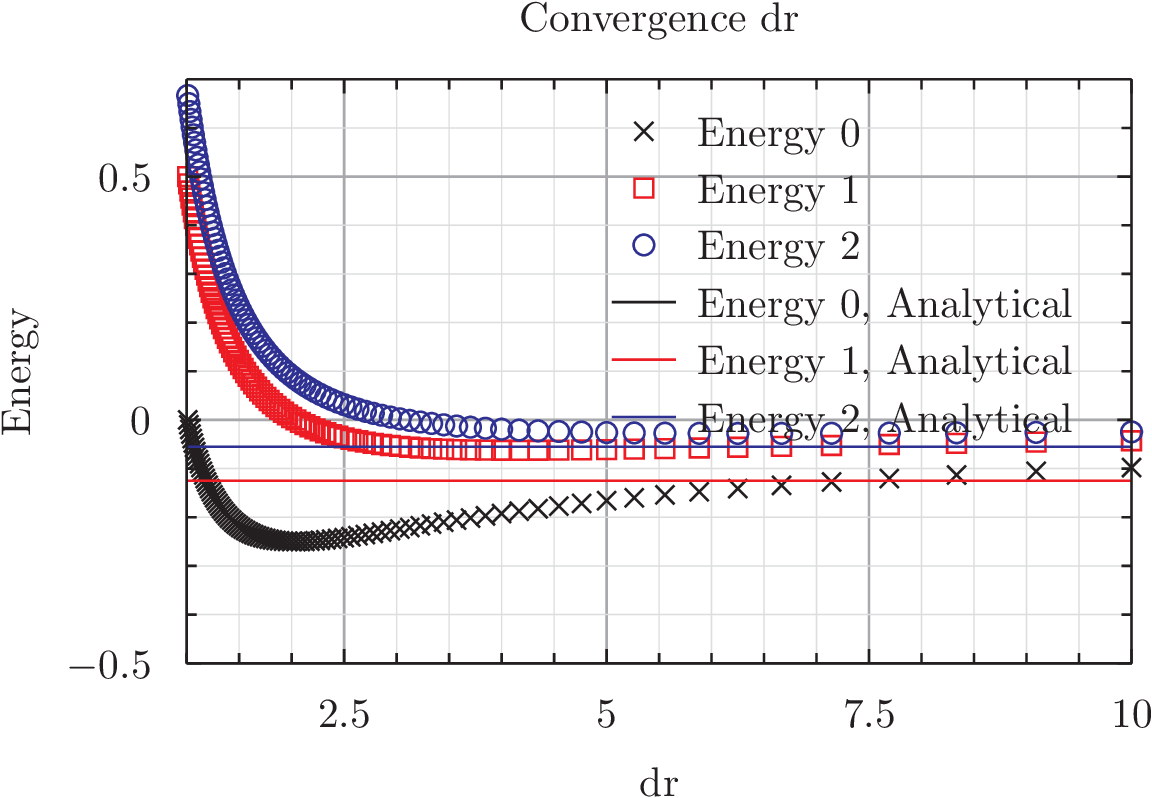
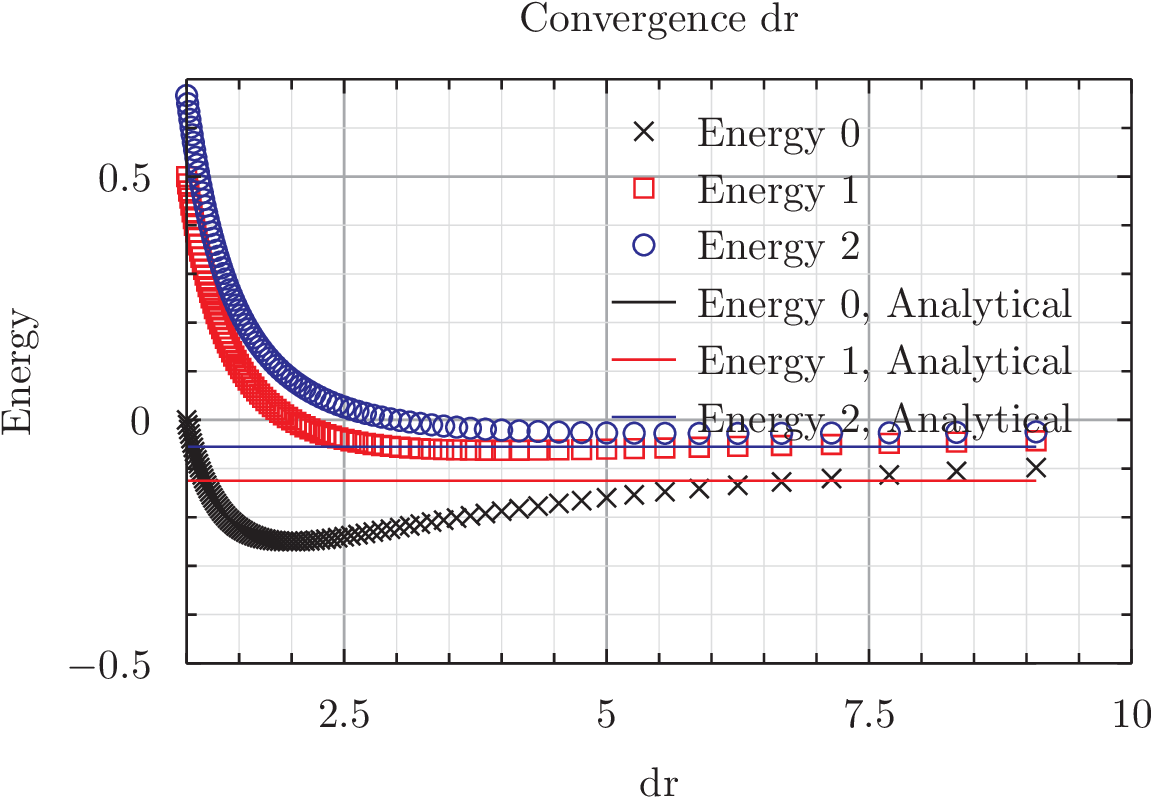
Working on eig part B

diff --git a/homework/eigenvalues/B/main.cs b/homework/eigenvalues/B/main.cs
@@ -8,7 +8,7 @@ class main{
 		StreamWriter sw_dr = new StreamWriter("drConv.dat");
 		for(int npoints = 10; npoints<100; npoints++){
 			double rmax = 100;
-			double dr = rmax/npoints;
+			double dr = rmax/(npoints+1);
  
 			var H = hem(rmax,npoints);
 			H.print("\n Matrix H \n"); 
